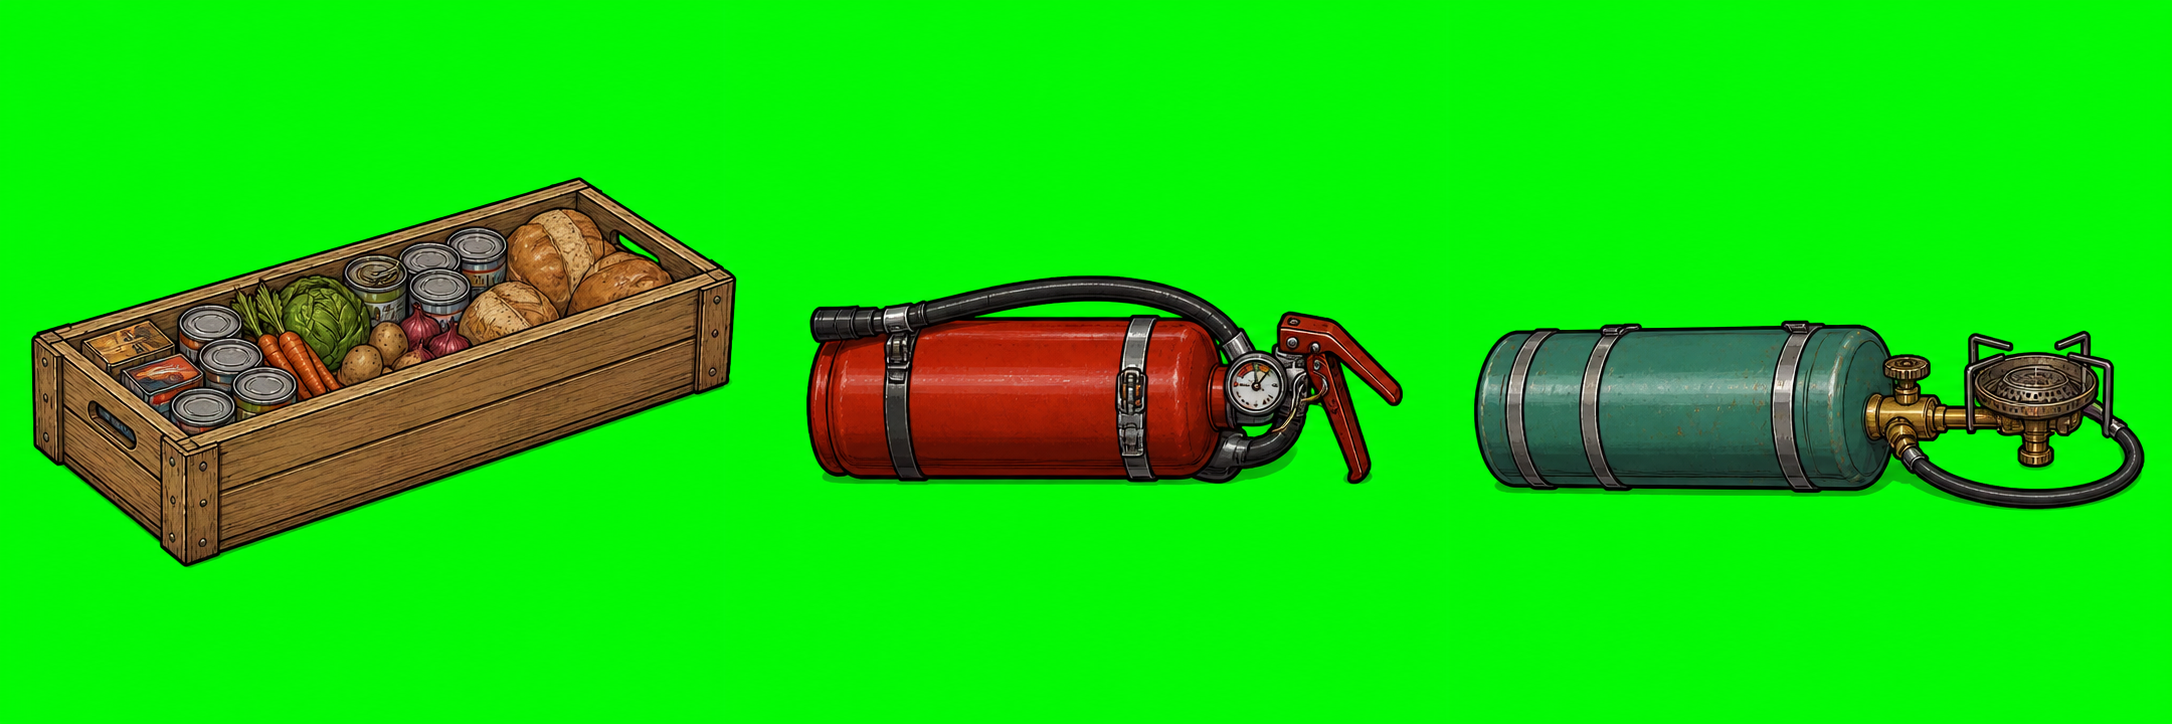
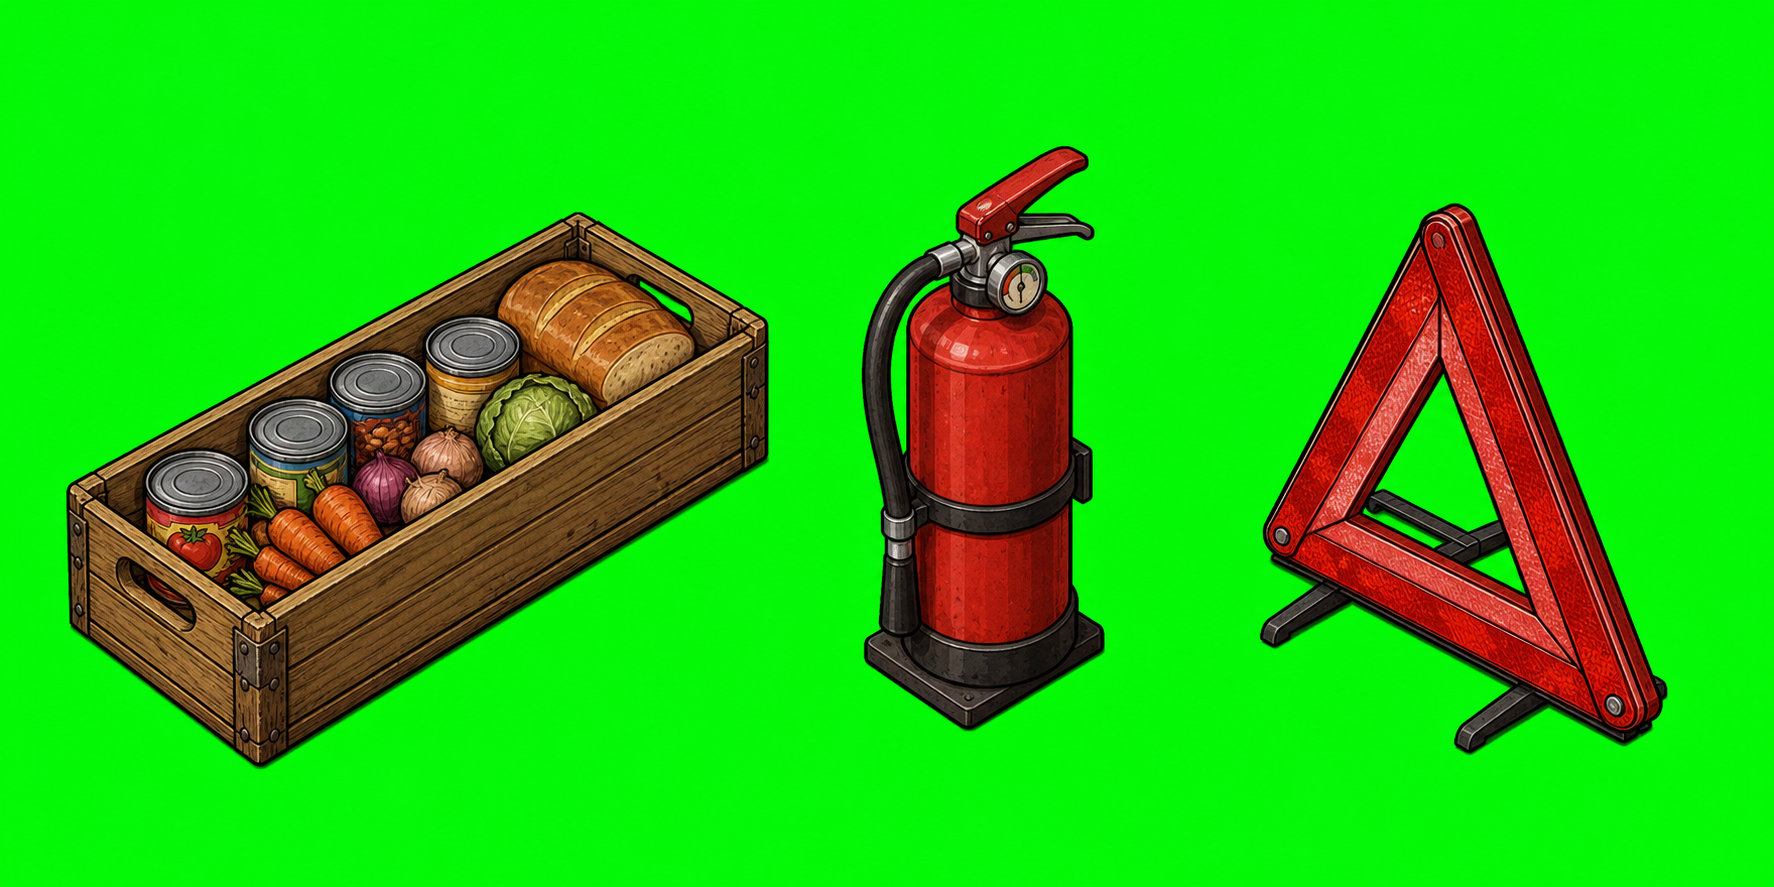
Replace gas gear with 3D warning triangle

diff --git a/src/scenes/PackScene.js b/src/scenes/PackScene.js
@@ -10,9 +10,9 @@ const ITEMS = [
   { id:"cooler", name:"Lodówka", dims:[2,3], crop:[627,836,627,418], tint:0x4a8a89 },
   { id:"compass", name:"Kompas", dims:[1,1], sourceKey:"packCompass", crop:[0,0,627,1254], tint:0x9b7732 },
   { id:"rope", name:"Lina", dims:[1,2], custom:true, tint:0xa58452 },
-  { id:"foodcrate", name:"Skrzynia z prowiantem", dims:[3,1], sourceKey:"packNewGear", crop:[0,0,724,724], tint:0xb88a4b },
-  { id:"extinguisher", name:"Gaśnica", dims:[2,1], sourceKey:"packNewGear", crop:[724,0,724,724], tint:0xb43b2f },
-  { id:"gasstove", name:"Butla z palnikiem", dims:[2,1], sourceKey:"packNewGear", crop:[1448,0,724,724], tint:0x277b82 }
+  { id:"foodcrate", name:"Skrzynia z prowiantem", dims:[3,1], sourceKey:"packNewGear", crop:[0,0,591,887], tint:0xb88a4b },
+  { id:"extinguisher", name:"Gaśnica", dims:[2,1], sourceKey:"packNewGear", crop:[591,0,591,887], tint:0xb43b2f },
+  { id:"triangle", name:"Trójkąt ostrzegawczy", dims:[2,1], sourceKey:"packNewGear", crop:[1182,0,592,887], tint:0xb43b2f }
 ];
 
 export class PackScene extends BaseScene {
@@ -398,15 +398,14 @@ export class PackScene extends BaseScene {
 
   createItemVisual(item, width, height, x, y, rotation){
     if(!["compass", "rope"].includes(item.id)){
-      if(["foodcrate", "extinguisher", "gasstove"].includes(item.id)){
+      if(["foodcrate", "extinguisher", "triangle"].includes(item.id)){
         const texture = this.textures.get(`pack-${item.id}`);
         const aspect = texture.width / texture.height;
-        const maxWidth = width * 0.94;
-        const maxHeight = height * 0.94;
-        const imageWidth = Math.min(maxWidth, maxHeight * aspect);
+        const imageWidth = width * 0.9;
         const imageHeight = imageWidth / aspect;
         const image = this.add.image(x, y, `pack-${item.id}`)
-          .setDisplaySize(imageWidth, imageHeight)
+          .setDisplaySize(rotation ? imageHeight : imageWidth, rotation ? imageWidth : imageHeight)
+          .setPosition(x, y - Math.max(0, (imageHeight - height) * 0.5))
           .setRotation(rotation ? Math.PI / 2 : 0);
         return image;
       }